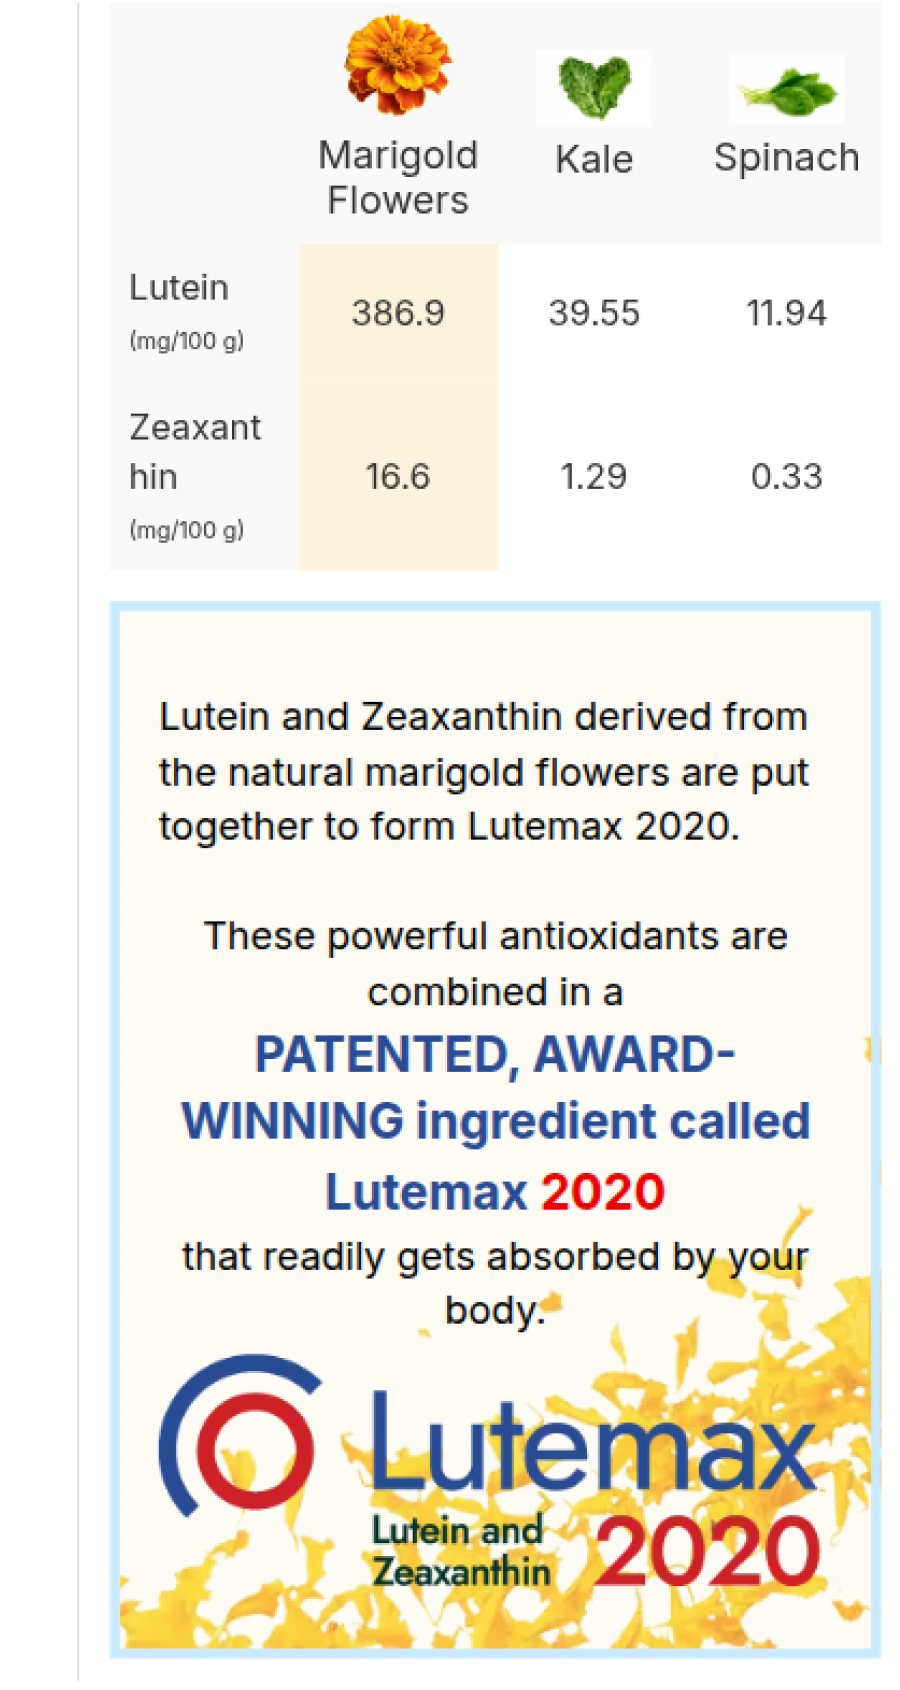
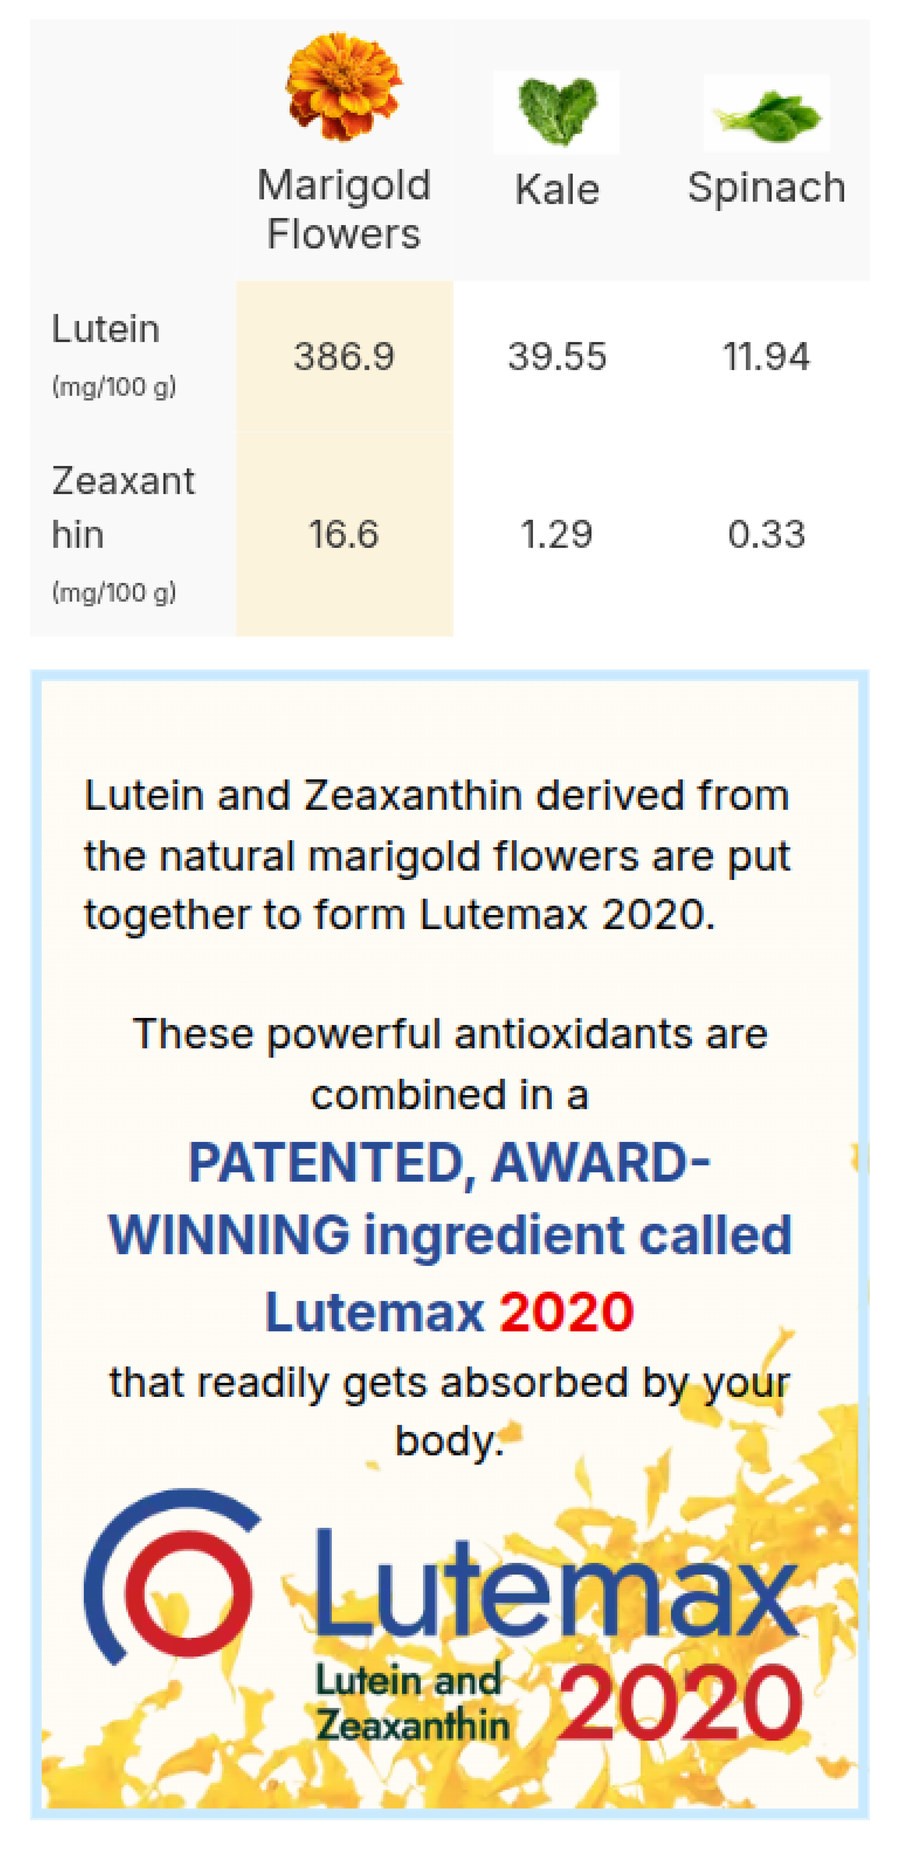
Fix ViewRyt nav overflow and rebuild two unreadable reel specimens
The mobile nav still wrapped because the case-study breadcrumb competed with
the logo and links for a 375px row; it duplicated the section label a scroll
below, so it goes rather than shrinks. The facts grid drops to one column at
the same breakpoint for the same reason.

i03a was cropped from a source with a stray page border, which pushed the
Lutein table off-centre and clipped the Spinach column and the Lutemax card
at the right edge. Re-cropped from the Figma export with the border excluded
and symmetric margins.

i04b was a sparse two-row grid of swatches whose 10px hex labels rendered at
3px inside the phone frame. Rebuilt as two contiguous strips at one swatch
width, so the 8-to-5 reduction is carried by strip length and reads at the
size the reel actually gives it.

diff --git a/case-viewryt.html b/case-viewryt.html
@@ -48,7 +48,6 @@
   nav .links{display:flex;gap:26px;}
   nav a{color:var(--ink);text-decoration:none;opacity:.65;transition:opacity .2s;}
   nav a:hover{opacity:1;}
-  nav .back{font-family:ui-monospace,Menlo,monospace;font-size:12px;letter-spacing:.14em;color:var(--mut);}
 
   .wrap{max-width:1080px;margin:0 auto;padding:0 44px;}
 
@@ -336,6 +335,8 @@
     nav{padding:18px 22px}
     .wrap{padding:0 22px}
     header{padding:140px 0 60px}
+    /* two columns leaves a ragged orphan and splits short labels across lines */
+    .facts{grid-template-columns:1fr;gap:20px;}
     .cards, .cards.four{grid-template-columns:1fr;}
     figure{padding:20px;}
     .case-nav{grid-template-columns:1fr;}
@@ -347,7 +348,6 @@
 
 <nav>
   <a class="logo" href="ravindra-hero.html">Ravindra&nbsp;Pratap<span style="color:var(--lav)">.</span></a>
-  <div class="back mono">CS/01 — VIEWRYT · THE AYURVEDA EXPERIENCE</div>
   <div class="links">
     <a href="ravindra-hero.html#work">Work</a><a href="ravindra-hero.html#about">About</a><a href="ravindra-hero.html#contact">Contact</a>
   </div>
@@ -525,7 +525,7 @@
                   <img data-fault="2" src="assets/viewryt/i01a.jpg" alt="Backed by Research block crediting Johns Hopkins, the NIH and Yale, above an NIH confirmation callout">
                   <img data-fault="2" src="assets/viewryt/i01b.jpg" alt="Bar chart showing AREDS 2 reducing risk of central vision loss by 19% against 11% and 10% comparators">
                   <img data-fault="3" src="assets/viewryt/i04a.jpg" alt="Revised hero with a clear heading, subhead and supporting line at distinct sizes">
-                  <img data-fault="3" src="assets/viewryt/i04b.jpg" alt="Previous eight-colour palette above the reduced five-colour palette">
+                  <img data-fault="3" src="assets/viewryt/i04b.jpg" alt="Swatch strip of the previous eight-colour palette above a visibly shorter strip of the reduced five-colour palette">
                 </div>
               </div>
               <div class="pbar"><i></i></div>
@@ -536,7 +536,7 @@
             <div class="ev-cap"><i>Improvement 01</i><b>Attention before explanation</b></div>
             <div class="ev-cap"><i>Improvement 02</i><b>Decision architecture</b></div>
             <div class="ev-cap"><i>Improvement 03</i><b>Trust first</b></div>
-            <div class="ev-cap"><i>Improvement 04</i><b>Progressive disclosure</b></div>
+            <div class="ev-cap"><i>Improvement 04</i><b>Hierarchy and consistency</b></div>
           </div>
         </div>
       </div>
